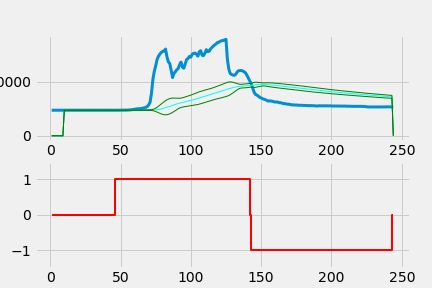
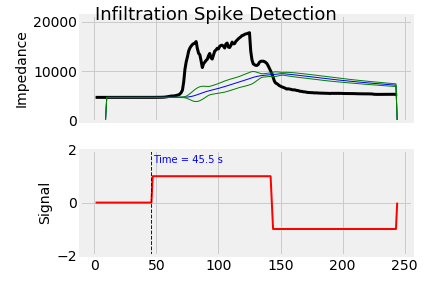
spike time detection

diff --git a/infiltrationdetection.py b/infiltrationdetection.py
@@ -6,7 +6,7 @@ Algorithm from https://stackoverflow.com/questions/22583391/peak-signal-detectio
 
 import numpy as np
 import time
-import pylab
+from pylab import *
 
 import matplotlib.pyplot as plt
 
@@ -33,23 +33,32 @@ peak = PeakDetector(array=y, lag=lag, threshold=threshold, influence=influence)
 # Run algo with settings from above
 result = PeakDetector.thresholding_algo(peak)
 
-# Plot result
-pylab.subplot(211)
-pylab.plot(np.arange(1, len(y)+1), y, lw=3)
+peaktime = PeakDetector.extractpeaktime(result["signals"])
 
-pylab.plot(np.arange(1, len(y)+1),
-           result["avgFilter"], color="cyan", lw=1)
+fig, axes = plt.subplots(2, 1, sharex=True, sharey=False)
+ax = axes.ravel()
+fig.suptitle("Infiltration Spike Detection", fontsize=18)
 
-pylab.plot(np.arange(1, len(y)+1),
-           result["avgFilter"] + threshold * result["stdFilter"], color="green", lw=1)
+ax[0].plot(np.arange(1, len(y)+1), y, linewidth=3, color='k', label="Signal")
+ax[0].plot(np.arange(1, len(y)+1), result["avgFilter"], color='b', linewidth=1)
+ax[0].plot(np.arange(1, len(y)+1),
+           result["avgFilter"] + threshold * result["stdFilter"], color='g', linewidth=1)
+ax[0].plot(np.arange(1, len(y)+1),
+           result["avgFilter"] - threshold * result["stdFilter"], color='g', linewidth=1)
+ax[0].set_ylim([0, max(y)*1.2])
+ax[0].set_ylabel("Impedance", fontsize=14)
 
-pylab.plot(np.arange(1, len(y)+1),
-           result["avgFilter"] - threshold * result["stdFilter"], color="green", lw=1)
+ax[1].plot(np.arange(1, len(y)+1), result["signals"], color="r", linewidth=2)
+if peaktime is not None: 
+    ax[1].axvline(x=peaktime, linestyle='--', color='b', linewidth=1)
+    ax[1].text(peaktime+2,1.5,"Time = %.1f s" % peaktime, fontsize=10, color='b')
+ax[1].set_ylim([-2,2])
+ax[1].set_ylabel("Signal", fontsize=14)
 
-pylab.subplot(212)
-pylab.step(np.arange(1, len(y)+1), result["signals"], color="red", lw=2)
-pylab.ylim(-1.5, 1.5)
-pylab.savefig('detectedpeak.png')
+
+fig.tight_layout()
+plt.savefig("detectedpeak.png", facecolor='w', edgecolor='none')
+plt.show()
 
 
 """

diff --git a/peakdetector.py b/peakdetector.py
@@ -78,3 +78,10 @@ class PeakDetector:
             self.stdFilter[i] = np.std(self.filteredY[(i - self.lag):i])
 
         return self.signals[i]
+    
+    def extractpeaktime(signals):
+
+        for i in range(len(signals)-1):
+            if signals[i] < signals[i+1]:
+                return i+0.5
+            
